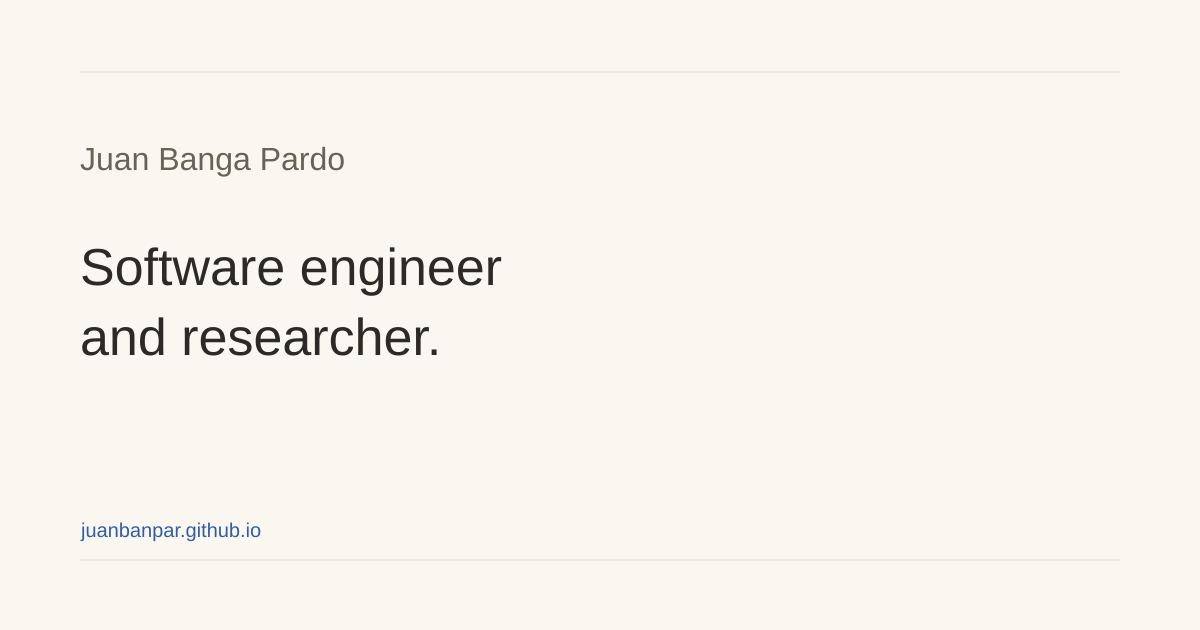
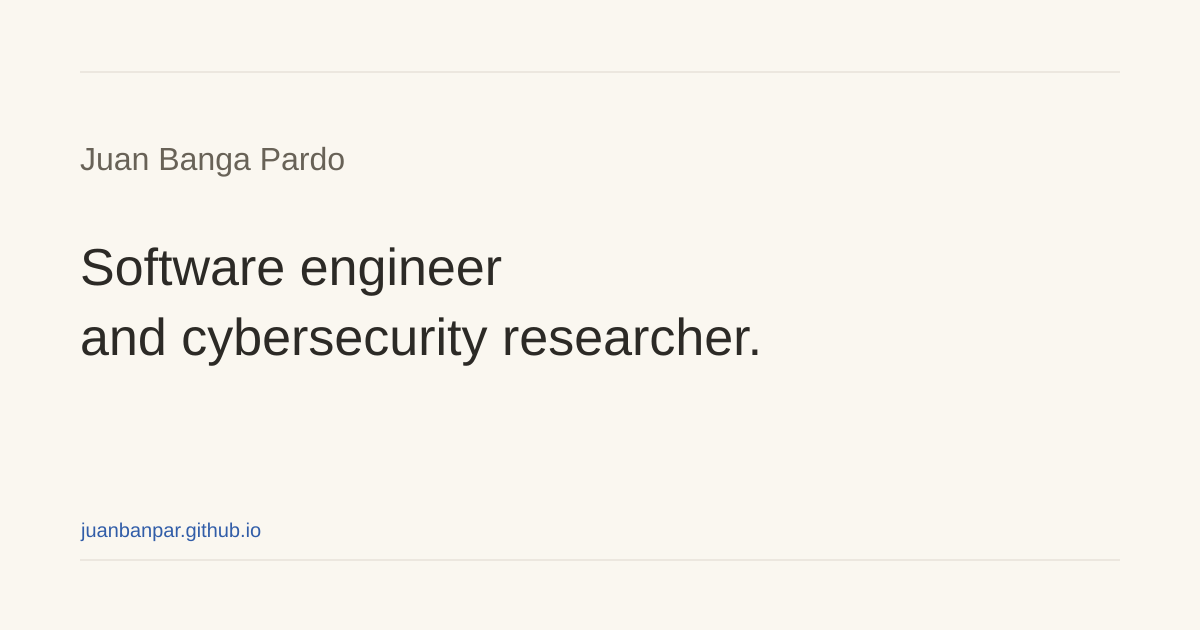
Restore selected work descriptions and add profile links to introductions

Changed region(s): [[0.1542, 0.5127, 0.6167, 0.573]]

diff --git a/src/lib/i18n.ts b/src/lib/i18n.ts
@@ -13,8 +13,8 @@ export const ui = {
     nav: { home: 'Home', about: 'About', work: 'Work', writing: 'Writing' },
     role: 'Research & engineering',
     greeting: "Hi, I'm Juan.",
-    introduction: 'Software engineer and researcher.',
-    introDetail: 'This is the bit without a PDF.',
+    introduction: 'Software engineer and cybersecurity researcher.',
+    profiles: 'Profiles',
     aboutLink: 'More about me', workLink: 'All work', writingLink: 'All writing',
     selected: 'Selected work', latest: 'Latest writing',
     workIntro: 'Publications, talks, and software.',
@@ -36,8 +36,8 @@ export const ui = {
     nav: { home: 'Inicio', about: 'Sobre min', work: 'Traballo', writing: 'Escritos' },
     role: 'Investigación e enxeñaría',
     greeting: 'Ola, son Juan.',
-    introduction: 'Enxeñeiro de software e investigador.',
-    introDetail: 'Esta é a parte sen PDF.',
+    introduction: 'Enxeñeiro de software e investigador en ciberseguridade.',
+    profiles: 'Perfís',
     aboutLink: 'Máis sobre min', workLink: 'Todo o traballo', writingLink: 'Todos os escritos',
     selected: 'Traballo seleccionado', latest: 'Últimos escritos',
     workIntro: 'Publicacións, charlas e software.',
@@ -59,8 +59,8 @@ export const ui = {
     nav: { home: 'Inicio', about: 'Sobre mí', work: 'Trabajo', writing: 'Escritos' },
     role: 'Investigación e ingeniería',
     greeting: 'Hola, soy Juan.',
-    introduction: 'Ingeniero de software e investigador.',
-    introDetail: 'Esta es la parte sin PDF.',
+    introduction: 'Ingeniero de software e investigador en ciberseguridad.',
+    profiles: 'Perfiles',
     aboutLink: 'Más sobre mí', workLink: 'Todo el trabajo', writingLink: 'Todos los escritos',
     selected: 'Trabajo seleccionado', latest: 'Últimos escritos',
     workIntro: 'Publicaciones, charlas y software.',

diff --git a/src/styles/global.css b/src/styles/global.css
@@ -81,8 +81,13 @@
 @layer components {
   .eyebrow { font-family: var(--sans); font-size: .7rem; text-transform: uppercase; letter-spacing: .13em; font-weight: 500; color: var(--muted); line-height: 1.5; }
   .hero { padding-block: 4.2rem 3.2rem; max-width: 780px; }
-  .hero-lead { max-width: 620px; font-size: 1.15rem; line-height: 1.6; margin-top: 1rem; }
-  .hero-detail { max-width: 540px; color: var(--muted); font-size: 1rem; margin-block: .35rem 1.5rem; }
+  .intro-row { display: flex; justify-content: space-between; align-items: start; gap: 2rem; margin-top: 1rem; }
+  .hero-lead { max-width: 620px; font-size: 1.15rem; line-height: 1.6; margin-bottom: 1rem; }
+  .intro-profiles { flex-direction: column; gap: .4rem; flex-shrink: 0; }
+  .intro-profiles a { color: var(--accent); }
+  .about-content > .intro-profiles { float: right; margin: 0 0 1.25rem 2rem; }
+  .about-content > .intro-profiles + p { margin-top: 0; }
+  .about-content h2 { clear: both; }
   .text-link { display: inline-flex; align-items: baseline; gap: .4rem; font-size: .83rem; text-decoration: none; }
   .text-link:hover { text-decoration: underline; }
   .page-section { margin-top: 3.4rem; }
@@ -139,6 +144,9 @@
   .not-found-languages { margin-top: 2rem; display: flex; gap: 1.5rem; font-size: .85rem; }
   @media (max-width: 760px) {
     .hero { padding-block: 3.5rem 2.5rem; }
+    .intro-row { flex-direction: column; gap: 1rem; }
+    .intro-profiles { flex-direction: row; gap: 1.2rem; }
+    .about-content > .intro-profiles { float: none; margin: 0 0 1.25rem; }
     .work-list > li { grid-template-columns: 1fr; gap: .65rem; padding-block: 1.5rem; }
     .work-meta { flex-direction: row; gap: .8rem; }
     .page-intro { padding-top: 3rem; }
